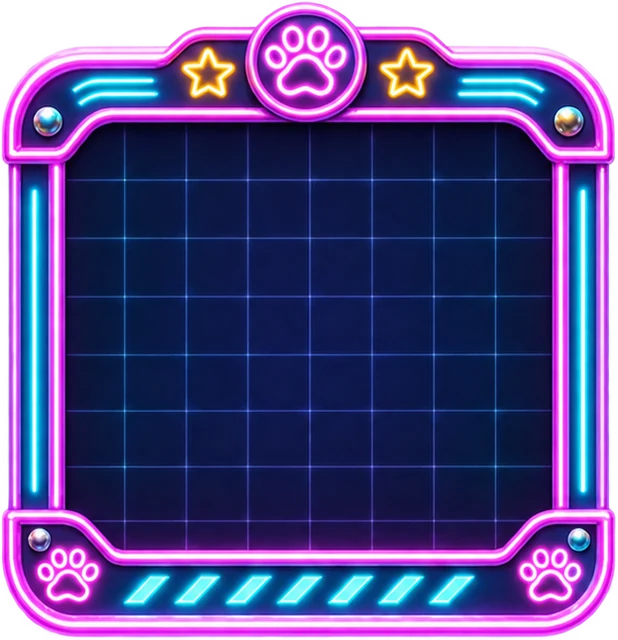
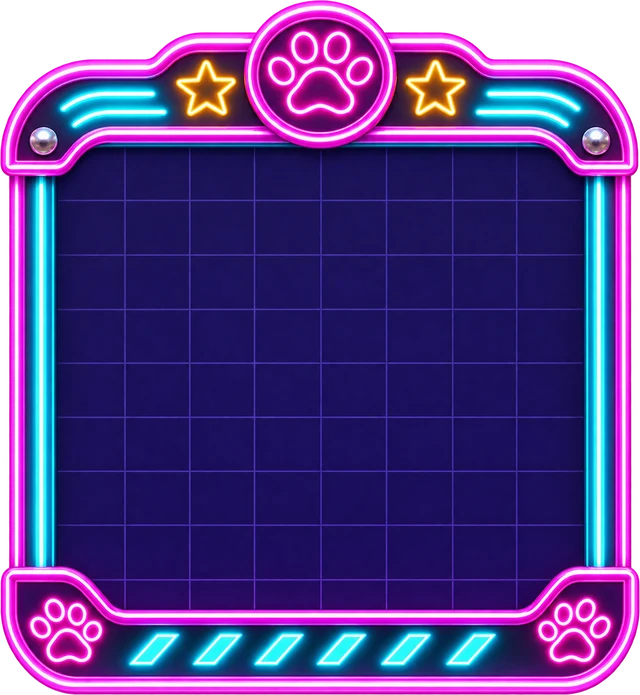
なかよしミラー: ネオン盤面を差し替え、床のグリッド線をマスに合わせる
Claude-Session: https://claude.ai/code/session_01C8PtLB3LUJopB3xqJkoRPg

diff --git a/binary/index.html b/binary/index.html
@@ -135,8 +135,8 @@ body[data-vt=retro] .bwrap{aspect-ratio:616/640;background-image:url(../img/bn/r
 body[data-vt=retro] .ce{background-image:none}body[data-vt=retro] #bd{background:#e8d2a4;border-radius:4px;box-shadow:inset 0 0 8px rgba(90,40,10,.35)}body[data-vt=retro] .ce.heart{background-image:url(../img/bn/retro_heart.webp)}body[data-vt=retro] .ce.gc,body[data-vt=retro] .ce.gm{background-image:url(../img/bn/retro_goal.webp)}body[data-vt=retro] .ce.mcol{background-image:url(../img/bn/retro_col.webp);border-radius:0}
 body[data-vt=retro] .ce.w.v0{background-image:url(../img/bn/retro_f1.webp)}body[data-vt=retro] .ce.w.v1{background-image:url(../img/bn/retro_f2.webp)}body[data-vt=retro] .ce.w.v2{background-image:url(../img/bn/retro_w1.webp)}body[data-vt=retro] .ce.w.v3{background-image:url(../img/bn/retro_w2.webp)}
 body[data-vt=retro] .dog.c{background-image:url(../img/bn/retro_colon.webp)!important}body[data-vt=retro] .dog.m{background-image:url(../img/bn/retro_moon.webp)!important}body[data-vt=retro] .pad button[data-d=u]{background-image:url(../img/bn/retro_up.webp)!important}body[data-vt=retro] .pad button[data-d=d]{background-image:url(../img/bn/retro_down.webp)!important}body[data-vt=retro] .pad button[data-d=l]{background-image:url(../img/bn/retro_left.webp)!important}body[data-vt=retro] .pad button[data-d=r]{background-image:url(../img/bn/retro_right.webp)!important}body[data-vt=retro] .pad button#bNext{background-image:url(../img/bn/retro_btn.webp)!important}
-body[data-vt=neon] .bwrap{aspect-ratio:619/641;background-image:url(../img/bn/neon_board.webp)}body[data-vt=neon] #bd{top:18.3%;right:10%;bottom:13.9%;left:10%}
-body[data-vt=neon] .ce{background-image:none}body[data-vt=neon] #bd{background:#121543;border-radius:4px;box-shadow:inset 0 0 10px rgba(63,240,255,.25)}body[data-vt=neon] .ce.heart{background-image:url(../img/bn/neon_heart.webp)}body[data-vt=neon] .ce.gc,body[data-vt=neon] .ce.gm{background-image:url(../img/bn/neon_goal.webp)}body[data-vt=neon] .ce.mcol{background-image:url(../img/bn/neon_col.webp);border-radius:0}
+body[data-vt=neon] .bwrap{aspect-ratio:1114/1209;background-image:url(../img/bn/neon_board.webp)}body[data-vt=neon] #bd{top:22%;right:8.6%;bottom:12.2%;left:8.5%}
+body[data-vt=neon] .ce{background-image:none}body[data-vt=neon] #bd{background-color:#16125a;background-image:linear-gradient(90deg,rgba(150,110,255,.55) 1px,transparent 1px),linear-gradient(rgba(150,110,255,.55) 1px,transparent 1px);background-size:calc(100% / 9) calc(100% / 8);background-position:-1px -1px;gap:0;border-radius:2px;box-shadow:inset 0 0 0 1px rgba(150,110,255,.55),inset 0 0 12px rgba(63,240,255,.2)}body[data-vt=neon] .ce.heart{background-image:url(../img/bn/neon_heart.webp)}body[data-vt=neon] .ce.gc,body[data-vt=neon] .ce.gm{background-image:url(../img/bn/neon_goal.webp)}body[data-vt=neon] .ce.mcol{background-image:url(../img/bn/neon_col.webp);border-radius:0}
 body[data-vt=neon] .ce.w.v0{background-image:url(../img/bn/neon_f1.webp)}body[data-vt=neon] .ce.w.v1{background-image:url(../img/bn/neon_w1.webp)}body[data-vt=neon] .ce.w.v2{background-image:url(../img/bn/neon_w2.webp)}body[data-vt=neon] .ce.w.v3{background-image:url(../img/bn/neon_f1.webp)}
 body[data-vt=neon] .dog.c{background-image:url(../img/bn/neon_colon.webp)!important}body[data-vt=neon] .dog.m{background-image:url(../img/bn/neon_moon.webp)!important}body[data-vt=neon] .pad button[data-d=u]{background-image:url(../img/bn/neon_up.webp)!important}body[data-vt=neon] .pad button[data-d=d]{background-image:url(../img/bn/neon_down.webp)!important}body[data-vt=neon] .pad button[data-d=l]{background-image:url(../img/bn/neon_left.webp)!important}body[data-vt=neon] .pad button[data-d=r]{background-image:url(../img/bn/neon_right.webp)!important}body[data-vt=neon] .pad button#bNext{background-image:url(../img/bn/neon_btn.webp)!important}
 body[data-vt=retro] .pad button#bNext{color:#7a2a10!important}body[data-vt=neon] .pad button#bNext{color:#fff!important;text-shadow:0 0 6px #3ff0ff}

diff --git a/sw.js b/sw.js
@@ -1,5 +1,5 @@
 // オフライン対応（ページは最新を優先、画像などはキャッシュを優先）
-const V='gc-v36';
+const V='gc-v37';
 const CORE=['./','index.html','coins.js','backup.js','manifest.webmanifest','icons/icon-192.png',
  ...['reversi','shogi','wanko','gomoku','memory','escape','rings','peg','slide','hanoi'].map(g=>g+'/')];
 self.addEventListener('install',e=>{e.waitUntil(caches.open(V).then(c=>c.addAll(CORE)).then(()=>self.skipWaiting()))});
